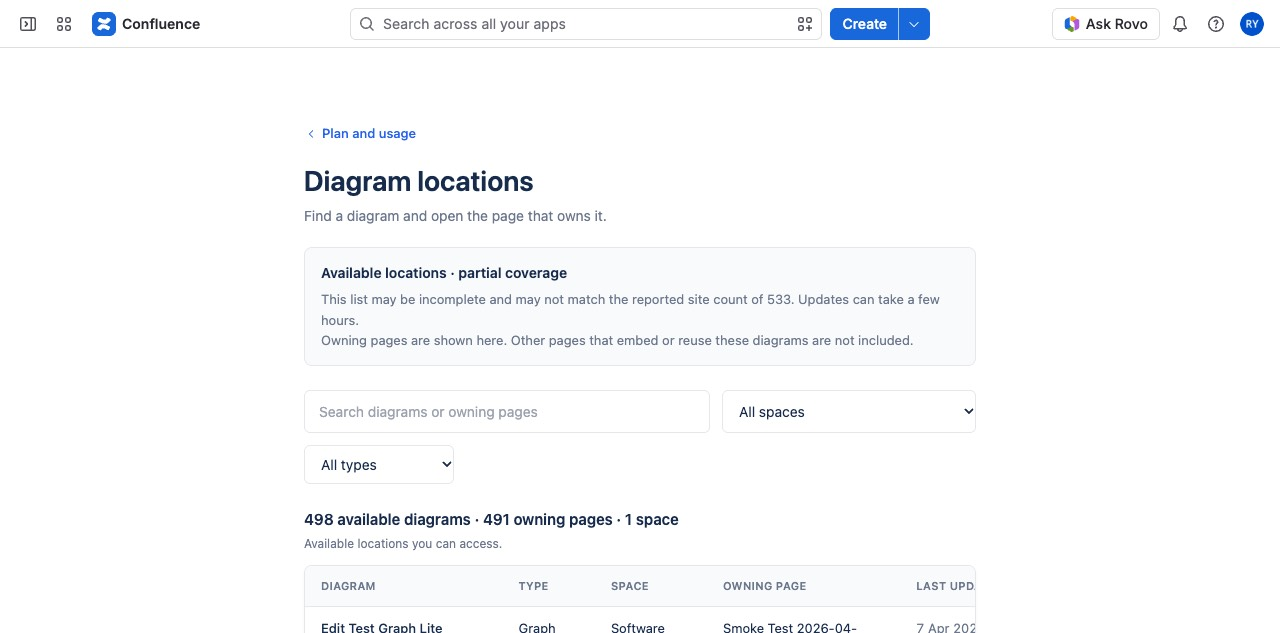
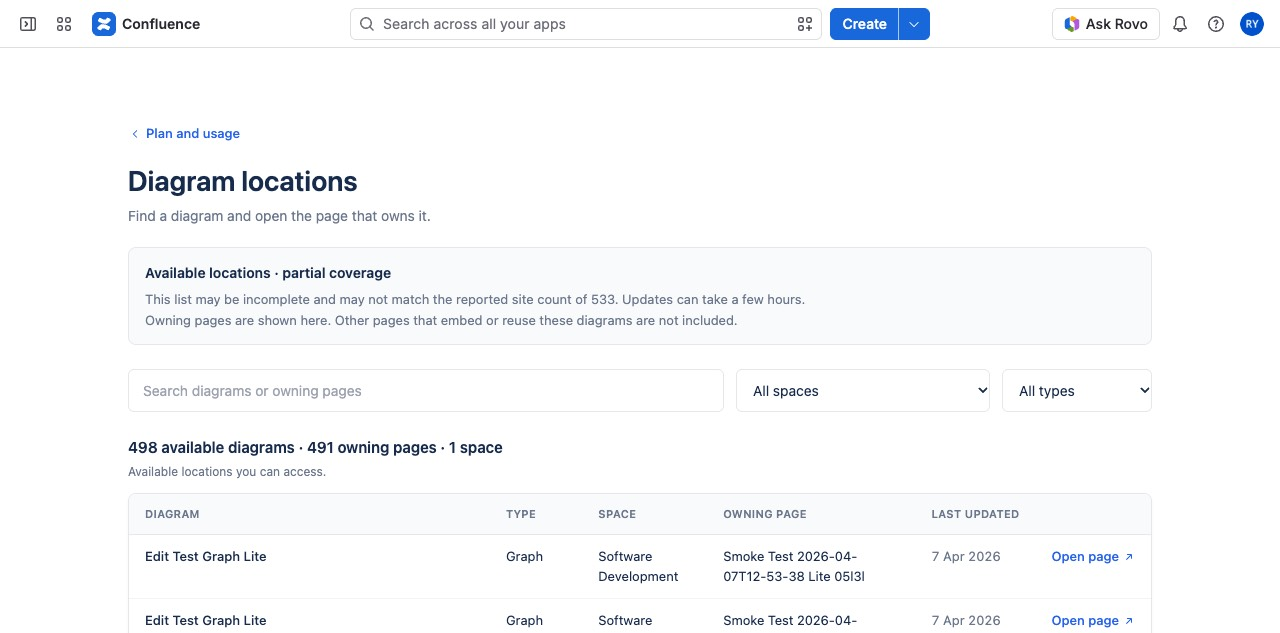
docs(plan-usage): staging evidence for the widened Diagram locations view

diff --git a/docs/features/diagram-locations/README.md b/docs/features/diagram-locations/README.md
@@ -49,8 +49,10 @@ Forge tunnel on the `lite-dev` development site (branch `feat/plan-usage-diagram
 
 CI-deployed staging on `lite-stg` (PR validation run 39890952633: Lite staging deploy + E2E green), robot test account, iframe served from the Forge CDN:
 
-| Plan and usage | Diagram locations (live, paused after 500) | Search (no match) | Opened owning page |
+| Plan and usage | Diagram locations (live, paused after 500; widened view 32fd7d58) | Search (no match) | Opened owning page |
 |---|---|---|---|
 | ![](staging-plan-and-usage.jpg) | ![](staging-locations.jpg) | ![](staging-search.jpg) | ![](staging-opened-page.jpg) |
 
 Observed: of 15 reported spaces the robot can see 2, and only those are offered; the largest space held 981 live records against a reported 250, loaded in two 500-record runs; search, type filter (Graph → 248), Next and focus behave; "Open page" opened the owning page in a new tab.
+
+A first staging capture showed the six-column table clipped inside the 720px usage column; commit 32fd7d58 gives the locations view the Figma frame's 1072px width and lets the table scroll. Re-measured on the redeployed staging build: page width 1072, table scroll width equal to its client width, all six headers visible.
